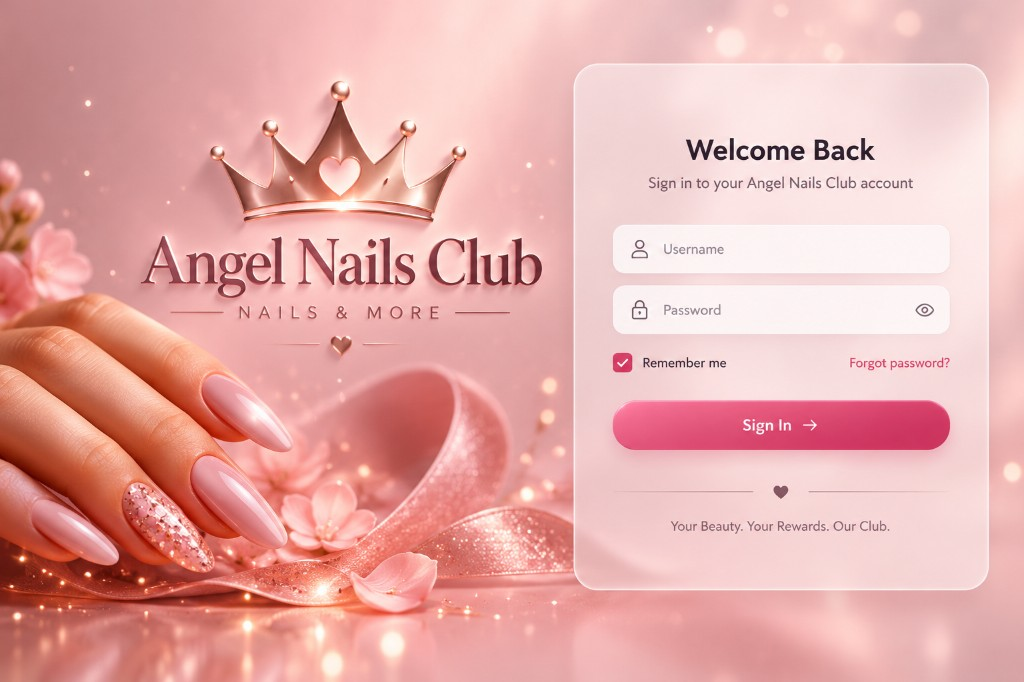
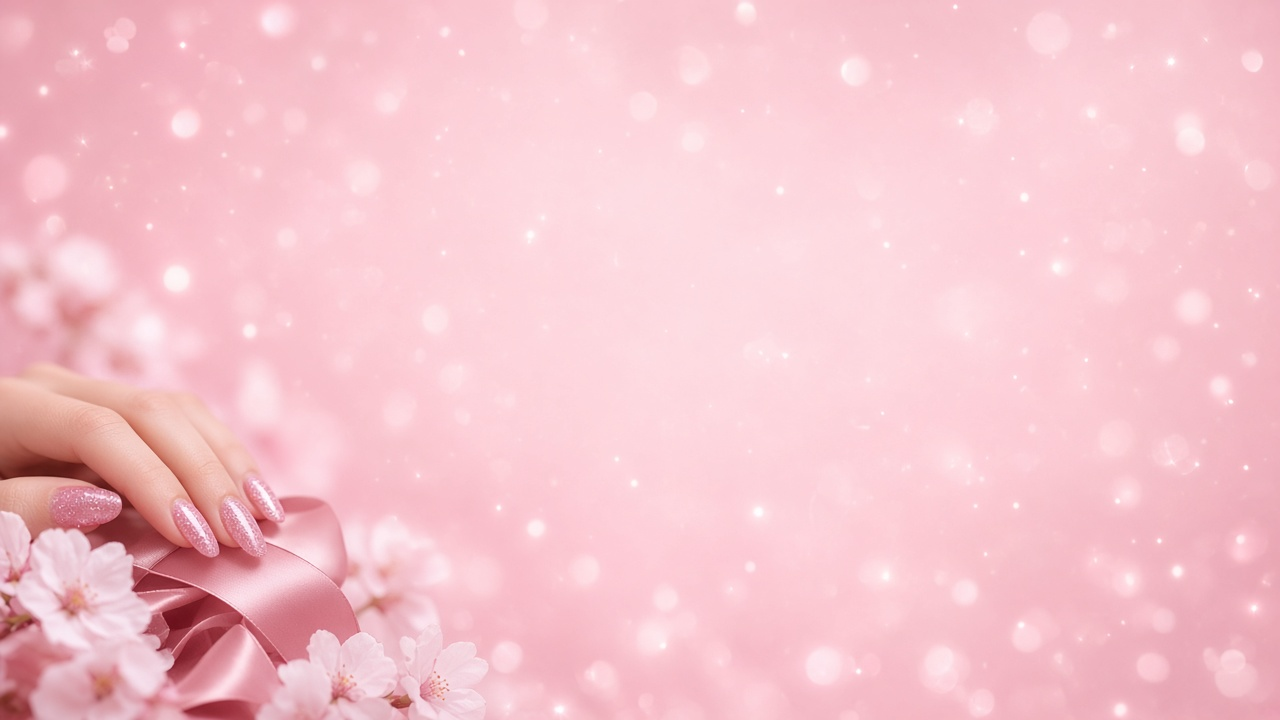
Fix login screen double UI by using a clean background.
The previous auth background included a full mockup form, which stacked under the live login card.

diff --git a/src/renderer/src/styles/global.css b/src/renderer/src/styles/global.css
@@ -2793,29 +2793,31 @@ a.dash-list-row:hover,
   min-height: 100vh;
   display: grid;
   place-items: center;
-  padding: 28px;
+  padding: 32px 40px;
   background-size: cover;
-  background-position: center;
+  background-position: left bottom;
   background-repeat: no-repeat;
+  overflow: hidden;
 }
 
 .auth-veil {
   position: absolute;
   inset: 0;
   background:
-    radial-gradient(circle at 20% 30%, rgba(255, 255, 255, 0.35), transparent 45%),
-    linear-gradient(120deg, rgba(255, 230, 240, 0.35), rgba(255, 255, 255, 0.18));
+    linear-gradient(90deg, rgba(255, 240, 246, 0.28) 0%, rgba(255, 247, 250, 0.55) 48%, rgba(255, 250, 252, 0.72) 100%),
+    radial-gradient(circle at 75% 40%, rgba(255, 255, 255, 0.35), transparent 50%);
   pointer-events: none;
 }
 
 .auth-layout {
   position: relative;
   z-index: 1;
-  width: min(1040px, 100%);
+  width: min(1080px, 100%);
   display: grid;
-  grid-template-columns: 1.05fr 0.95fr;
-  gap: 28px;
+  grid-template-columns: minmax(240px, 1fr) minmax(320px, 420px);
+  gap: 36px;
   align-items: center;
+  justify-content: space-between;
 }
 
 .auth-brand {
@@ -2868,11 +2870,11 @@ a.dash-list-row:hover,
 .auth-card {
   padding: 34px 32px 28px;
   border-radius: 28px;
-  background: rgba(255, 255, 255, 0.62);
-  border: 1px solid rgba(255, 255, 255, 0.7);
-  box-shadow: 0 24px 60px rgba(90, 40, 66, 0.16);
-  backdrop-filter: blur(16px);
-  -webkit-backdrop-filter: blur(16px);
+  background: rgba(255, 255, 255, 0.92);
+  border: 1px solid rgba(255, 255, 255, 0.95);
+  box-shadow: 0 24px 60px rgba(90, 40, 66, 0.18);
+  backdrop-filter: blur(18px);
+  -webkit-backdrop-filter: blur(18px);
 }
 
 .auth-card-head h2 {
